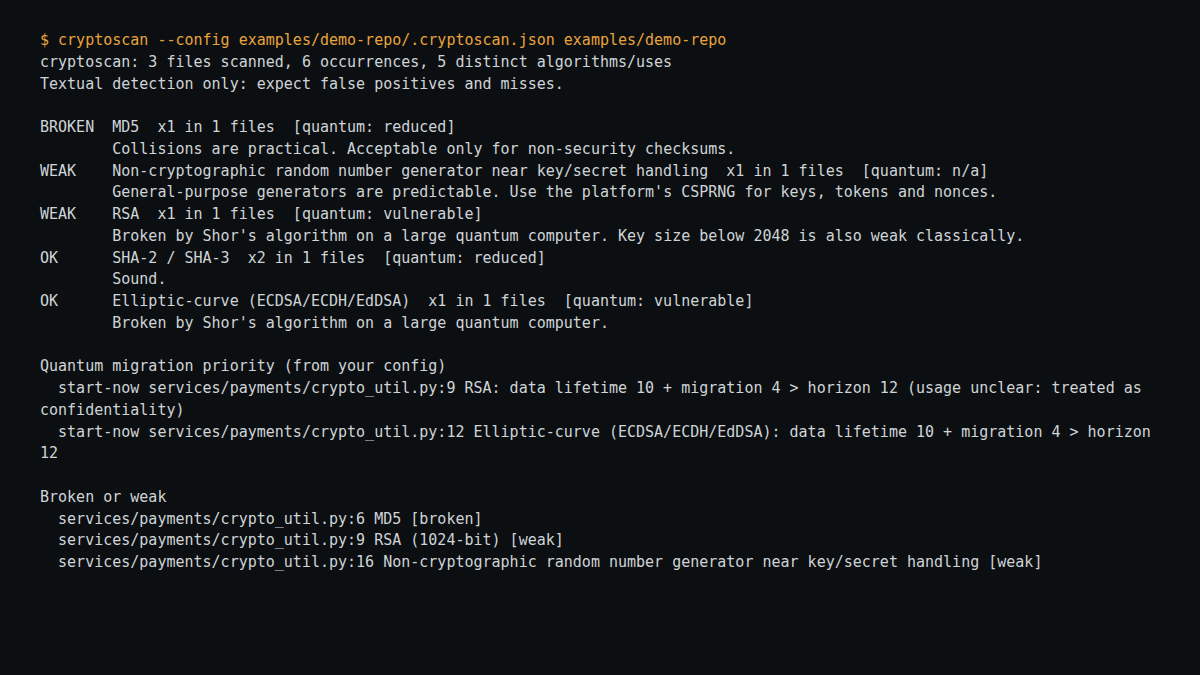
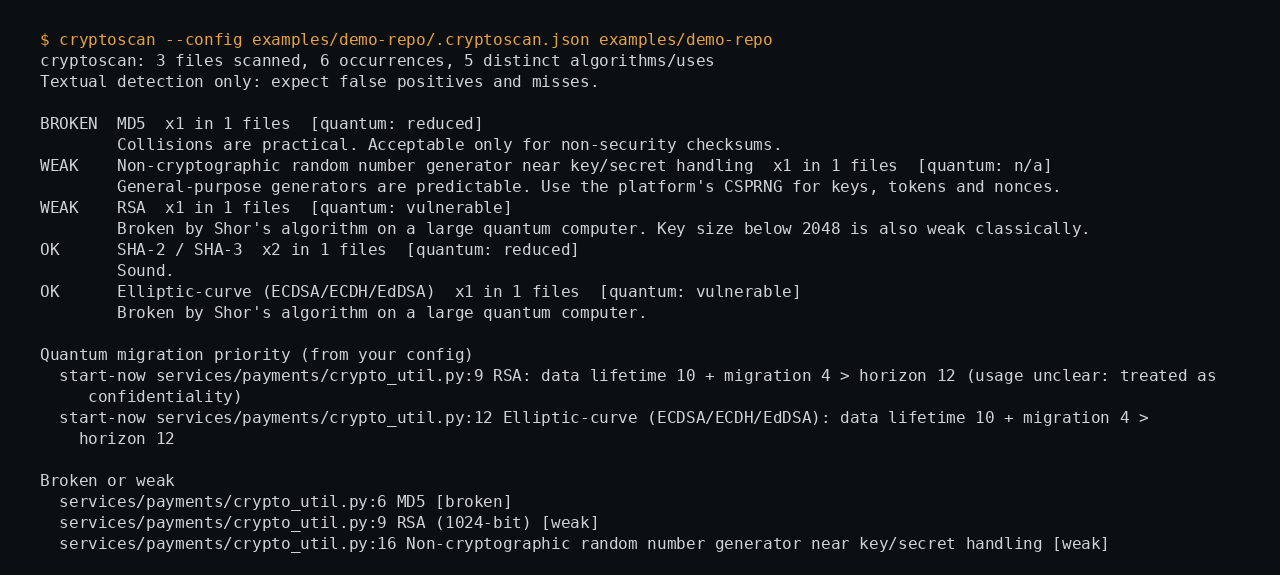
Fix wrapped lines in the terminal capture and refresh it from current output

diff --git a/README.md b/README.md
@@ -66,4 +66,4 @@ Designed and built by Maak — https://github.com/0xM44k
 
 ![Terminal output captured in this session](docs/evidence-terminal.png)
 
-The image above is a capture of the command shown at the top of the image, run against the files in this repository on 2026-10-28. It is the tool's actual output, rendered in a terminal panel for legibility; no output lines were invented.
+The image above is a capture of the command shown at the top of the image, run against the files in this repository on 2026-11-01. It is the tool's actual output, rendered in a terminal panel for legibility; no output lines were invented.
